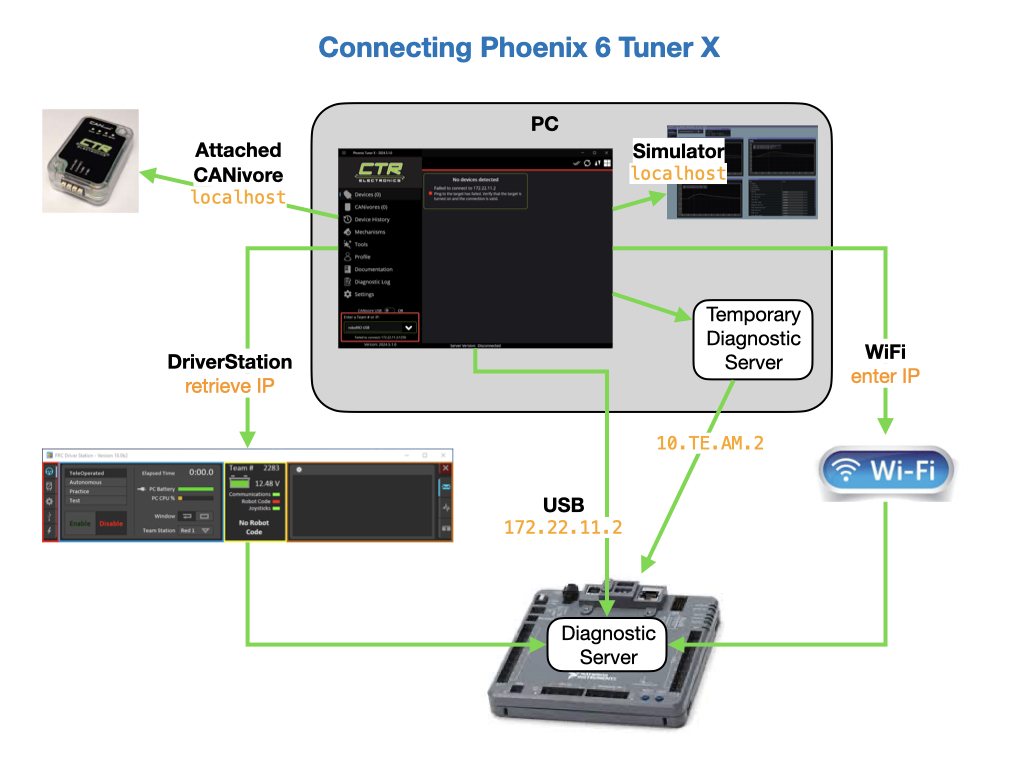
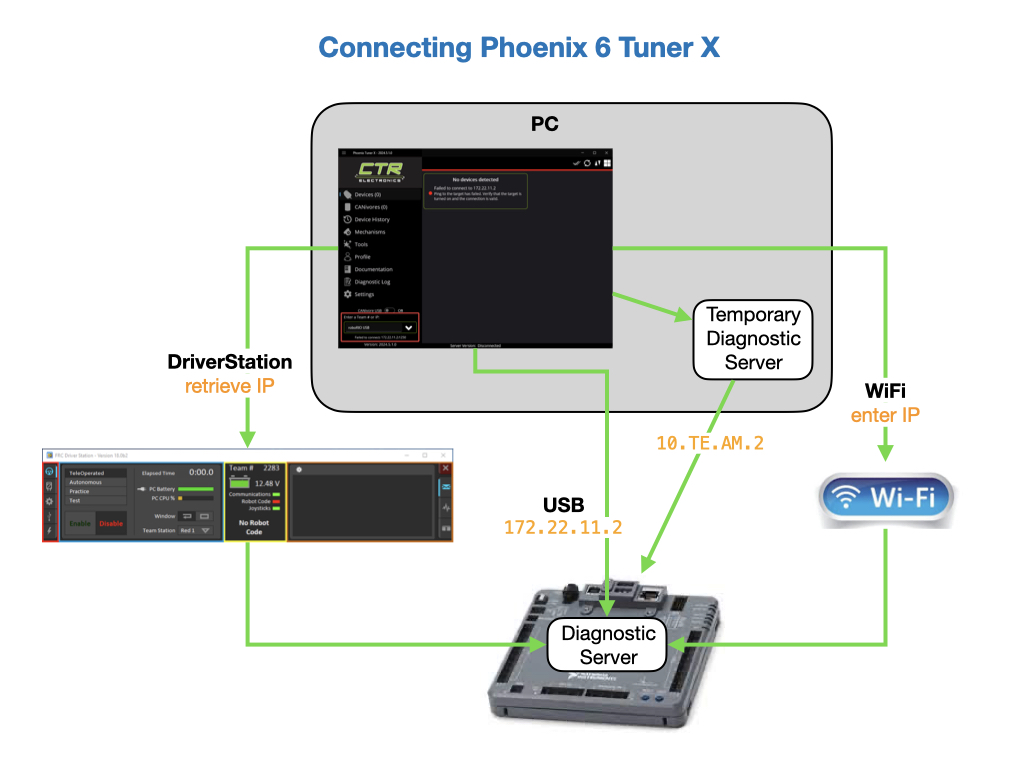
tuner X updates

Changed region(s): [[0.5938, 0.1562, 0.8125, 0.3125], [0.0312, 0.125, 0.3125, 0.2812], [0.7812, 0.4375, 0.9375, 0.6875]]

diff --git a/docs/SoftwareInstall/rioSoftware.md b/docs/SoftwareInstall/rioSoftware.md
@@ -2,11 +2,11 @@
 
 The [NI-roboRIO](https://docs.wpilib.org/en/stable/docs/software/roborio-info/roborio-introduction.html#roborio-introduction) is the main robot controller used for FRC. The roboRIO serves as the “brain” for the robot running team-generated code that commands all of the other hardware.  Prior to using the **RoboRio** you have to install, or update, the software stack.  Here are the components that need to be installed.
 
-![RoboRIO Software Stack](../../images/FRCTools/FRCTools.016.jpeg)
+![RoboRIO Software Stack](../images/FRCTools/FRCTools.016.jpeg)
 
 Here is a step-by-step guide for accomplishing the install.
 
-![After Upgrade](../../images/FRCTools/FRCTools.017.jpeg)
+![After Upgrade](../images/FRCTools/FRCTools.017.jpeg)
 
 #### Step 1. Install the FRC Game Tools
 The first step is to [Install the FRC Game Tools](https://docs.wpilib.org/en/stable/docs/zero-to-robot/step-2/frc-game-tools.html).  These can be down loaded from the [NI FRC Game Tools](https://www.ni.com/en-us/support/downloads/drivers/download.frc-game-tools.html#473762) releases site, and only supports Windows.  After the install it asks you to login to your **NI Activation** account and enter a serial number.  It's not clear why you need the account, but here's information on [getting the serial number](https://knowledge.ni.com/KnowledgeArticleDetails?id=kA00Z0000019OJTSA2&l=en-US).  Once you have the serial number you can use the [Activation Wizard](https://docs.wpilib.org/en/stable/docs/zero-to-robot/step-2/labview-setup.html#ni-activation-wizard). 
@@ -20,9 +20,9 @@ Installed tools include:
 #### Step 2. Image the RoboRio
 The *Imaging Tool* is used to install the roboRIO Firmware and the Image.  The image is the equivalent of the operating system.  The roboRIO 2 must be imaged using the [roboRIO 2.0 microSD](https://docs.wpilib.org/en/stable/docs/software/roborio-info/roborio2-imaging.html) card imaging process.  This also applies if you're upgrading from a previous year.  Once the image is flashed to a microSD card and inserted the team number will need to be set using the RoboRIO imaging tool. See [Setting the roboRIO Team Number](https://docs.wpilib.org/en/stable/docs/zero-to-robot/step-3/roborio2-imaging.html#setting-the-roborio-team-number) in the FRC documentation.  If you have any problems with the install checkout the [Troubleshooting](https://docs.wpilib.org/en/stable/docs/zero-to-robot/step-3/imaging-your-roborio.html#troubleshooting) steps.
 
- If you have the older roboRIO then all of the imaging is done from the *Imaging Tool*.  If the RoboRio has already been imaged from a previous year and already has an microSD card inserted then the Imaging Tool can be used to update the software. Open the [RoboRIO Imaging Tool](https://docs.wpilib.org/en/stable/docs/zero-to-robot/step-3/imaging-your-roborio.html#roborio-imaging-tool) and follow the instructions.  
+ <!-- If you have the older roboRIO then all of the imaging is done from the *Imaging Tool*.  If the RoboRio has already been imaged from a previous year and already has an microSD card inserted then the Imaging Tool can be used to update the software. Open the [RoboRIO Imaging Tool](https://docs.wpilib.org/en/stable/docs/zero-to-robot/step-3/imaging-your-roborio.html#roborio-imaging-tool) and follow the instructions.   -->
 
-Once the RoboRIO is imaged it sets up the [RoboRIO Web Dashboard](https://docs.wpilib.org/en/stable/docs/software/roborio-info/roborio-web-dashboard.html#roborio-web-dashboard), which is a webpage built into the roboRIO that can be used for checking status and updating settings of the roboRIO. 
+Once the RoboRIO is imaged it sets up the [RoboRIO Web Dashboard](https://docs.wpilib.org/en/stable/docs/software/roborio-info/roborio-web-dashboard.html#roborio-web-dashboard), which is a webpage built into the roboRIO that can be used for checking status and updating settings of the roboRIO. Use `172.22.11.2` if connected via USB, or `roboRIO-2928-FRC.local` if connected over WiFi.
 
 #### Step 3. Install Phoenix Framework Software
 

diff --git a/docs/SoftwareInstall/vendorSoftware.md b/docs/SoftwareInstall/vendorSoftware.md
@@ -42,16 +42,20 @@ In order to select data values (referred to as *Signal Values*) from the Phoenix
     import com.ctre.phoenix6.BaseStatusSignal;
     import com.ctre.phoenix6.StatusSignal;
 
-## Installing the Phoenix Tuner
+## Installing the Phoenix Tuner X
 Phoenix Tuner is the companion application allowing you to configure, analyze, update and control device. See [Phoenix 6 Tuner X](https://pro.docs.ctr-electronics.com/en/latest/docs/tuner/index.html) for installing the tuner.
+
+## Connecting the Phoenix Tuner X
 
 There are multiple ways to connect the tuner to the RoboRio.  If you have a USB cable connected it defaults to `172.22.11.2` which is the roboRIO IP when connected via USB.  You can also connect via the *DriverStation* as long as it's connected to the RoboRio.  If the RoboRio is newly imaged and there is no robot program running you'll need to bring up a *Temporary Diagnostic Server*, which is done from the Tuner.  
 
 ![Connect Tuner X](../images/FRCroboRIO/FRCroboRIO.012.jpeg)
 
-To upgrade the devices see the [Devices](https://pro.docs.ctr-electronics.com/en/latest/docs/tuner/device-list.html) page.
+ See the Phoenix Tuner X [Devices](https://pro.docs.ctr-electronics.com/en/latest/docs/tuner/device-list.html) page for information on upgrading devices.  The Tuner will automatically download the latest firmware when it's started.  See [Firmware Upgrade](https://pro.docs.ctr-electronics.com/en/latest/docs/tuner/device-details-page.html#field-upgrade-firmware-version).
 
-The Tuner will automatically download the latest firmware when it's started.  See [Firmware Upgrade](https://pro.docs.ctr-electronics.com/en/latest/docs/tuner/device-details-page.html#field-upgrade-firmware-version).
+If you have a *CANivore* you can upgrade Phoenix device firmware directly from a PC.
+
+![Connect Tuner X](../images/FRCroboRIO/FRCroboRIO.014.jpeg)
 
 ## Install REV Robotics Software
 The install of the REV Robotics libraries is similar to that of the Phoenix software for Mac and Linux.  

diff --git a/docs/RoboRIO/motorControl.md b/docs/RoboRIO/motorControl.md
@@ -62,6 +62,10 @@ See [Closed-Loop Gain Slots](https://pro.docs.ctr-electronics.com/en/latest/docs
 ## Status Signals
 Signals represent live data reported by a device; these can be yaw, position, etc. To make use of the live data, users need to know the value, timestamp, latency, units, and error condition of the data. See [Status Signals](https://pro.docs.ctr-electronics.com/en/latest/docs/api-reference/api-usage/status-signals.html) for a detailed explaination.
 
+## Hardware Attached Simulation
+CANivore supports hardware-attached simulation when used in an FRC robot program. This allows a CANivore to be used with real devices from a PC. See [Hardware Attached Simulation](https://pro.docs.ctr-electronics.com/en/latest/docs/canivore/canivore-hardware-attached.html) in the Phoenix 6 documentation.  The devices must be independently powered since the USB cable will not supply enough power.
+
+![Hardware Attached Simulation](../images/FRCroboRIO/FRCroboRIO.013.jpeg)
 
 <!-- ## Lab - Motor Control
 

diff --git a/docs/Romi/SC/romiTelemetry.md b/docs/Romi/SC/romiTelemetry.md
@@ -54,7 +54,7 @@ Remember that we're putting this in the `publishTelemetry()` method. Also publis
         // Display the meters per/second for each wheel and the heading
         SmartDashboard.putNumber("Left Wheel Speed", m_leftEncoder.getRate());
         SmartDashboard.putNumber("Right Wheel Speed", m_rightEncoder.getRate());
-        SmartDashboard.putNumber("Heading", getHeading());
+        SmartDashboard.putNumber("Heading", getHeading().getDegrees());
     }
 
 This function can now be called from the `periodic()` method, which will place it in the robot's process loop.  Since the process loop runs 50 times per/second we'll see a continuous stream of changing data as the robot moves.
